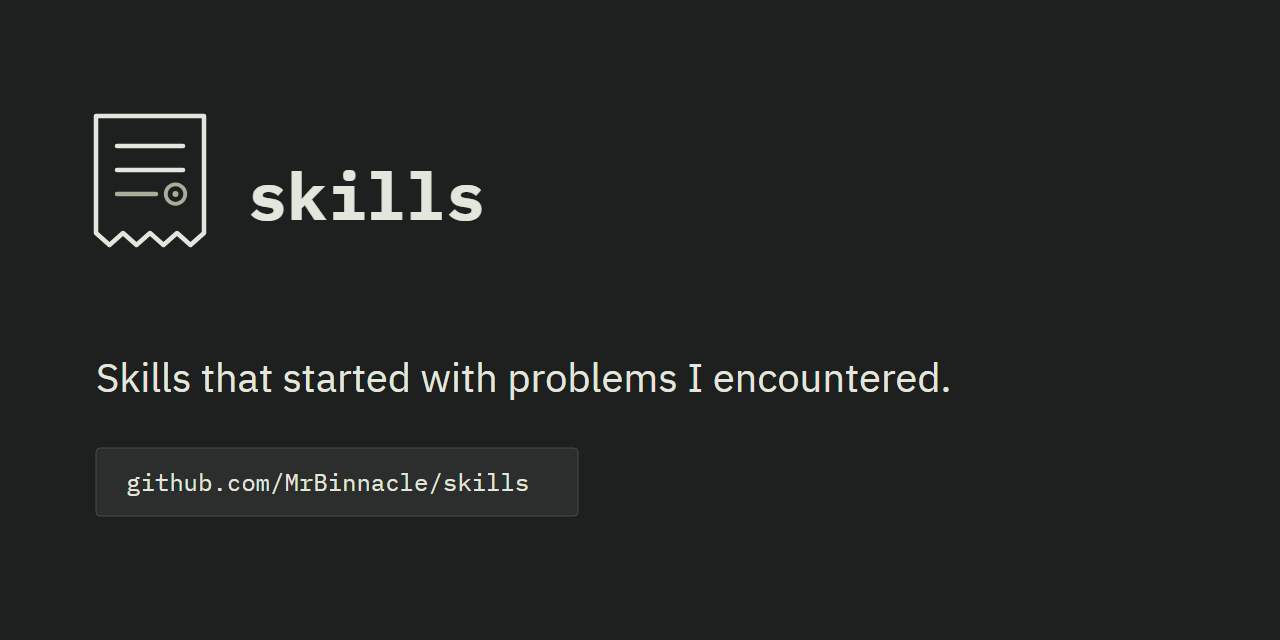
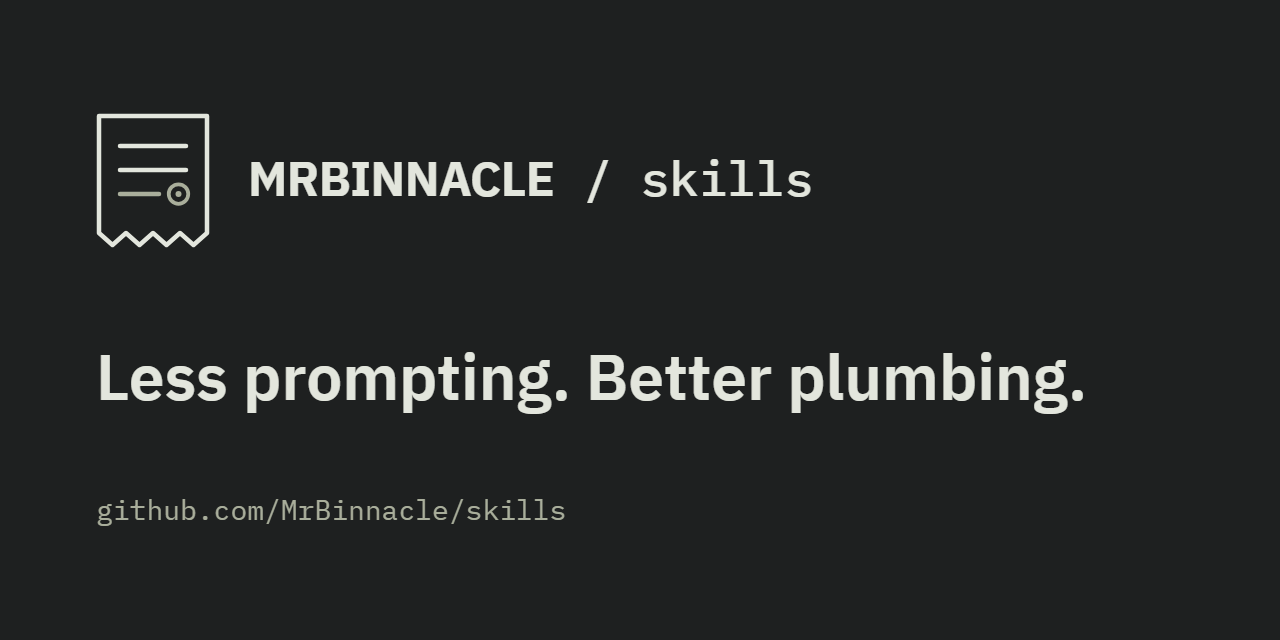
feat(front-door): replace the front-door line with "Less prompting. Better plumbing." (#694)
The owner retired "Skills that started with problems I encountered." on
2026-11-24 and picked the new line from agent-drafted candidates. A design
critique the same day found a first-time reader could not tell from the
old line what "skills" or "I" meant.

The social preview is rebuilt to that critique: the MRBINNACLE / skills
wordmark, the statement as the largest type, the address as a muted
footer instead of a boxed panel, the mark inside the 96px safe area, and
a greyscale-antialiased export with no colour fringes.

Claude-Session: https://claude.ai/code/session_01KqueBQXYqrYn1Uk6EPrkS6

diff --git a/site/index.html b/site/index.html
@@ -133,7 +133,7 @@
       </svg>
       <div class="hero-text">
         <h1>
-          Skills that started with problems I encountered.
+          Less prompting. Better plumbing.
         </h1>
         <p class="action">
           <span class="action-label"><svg class="icon" aria-hidden="true" focusable="false" width="20" height="20"><use href="#ph-terminal-window"/></svg>Install in Claude Code</span>

diff --git a/.changeset/less-prompting-better-plumbing.md b/.changeset/less-prompting-better-plumbing.md
@@ -1,0 +1,5 @@
+---
+"mrbinnacle-skills": patch
+---
+
+The front-door line is now "Less prompting. Better plumbing." It replaces "Skills that started with problems I encountered." on `README.md`, both README banners, the landing page, the `package.json` description and the repository social preview. A design critique on 2026-11-24 found that a first-time reader could not tell from the old line what "skills" or "I" meant. The new line says what the repository does differently: its guards change what a coding agent can do, instead of adding instructions it may ignore. The social preview was rebuilt at the same time. It now shows the `MRBINNACLE / skills` wordmark, sets the address as a plain footer instead of a boxed panel, keeps the mark inside the safe margin, and is exported without the coloured fringes the old image had around its letters.

diff --git a/README.md b/README.md
@@ -7,7 +7,7 @@
 
 # MRBINNACLE / skills
 
-Skills that started with problems I encountered.
+Less prompting. Better plumbing.
 
 The agent says "Done." It never ran the tests.<br>
 The check passed. It could not have failed.<br>
